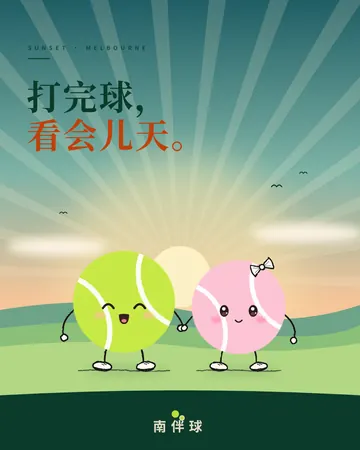
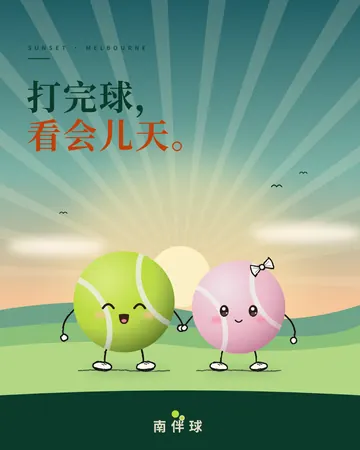
84：角色球身改 36 号同款立体画法；figure4 增加 ball_style
Claude-Session: https://claude.ai/code/session_01Vg2RCbjYppFezKGzdwzEXB

diff --git a/marketing/mao4.py b/marketing/mao4.py
@@ -95,6 +95,26 @@ def fuzzball(id, cx, cy, r, pal, seed=1, rot=-22, dens=1.0):
             f'<g clip-path="url(#bc{id})">{tex}<g transform="scale({u})">{seam_svg}</g></g></g>')
 
 
+SOFT = {'mao': ('#E4F76A', '#C6EA3D', '#7FA21C', '#0b1a00'),
+        'rong': ('#FFEEF4', '#FFC6D8', '#F29DBA', '#7a2a4a')}
+
+
+def softball(id, cx, cy, r, char='mao', rot=-22):
+    """36 号早安小球同款立体球：渐变 + 细颗粒（fuzz 滤镜）+ 边缘暗角 + 干净的奶白球缝。"""
+    hi, mid, lo, dk = SOFT[char]
+    sc = r / 100
+    sm = '#FFFDF4' if char == 'rong' else '#F7FBE8'
+    return (f'<defs><radialGradient id="sg{id}" cx="35%" cy="30%" r="85%"><stop offset="0" stop-color="{hi}"/><stop offset=".55" stop-color="{mid}"/><stop offset="1" stop-color="{lo}"/></radialGradient>'
+            f'<radialGradient id="sr{id}" cx="30%" cy="25%" r="90%"><stop offset="0" stop-color="#fff" stop-opacity=".22"/><stop offset=".45" stop-color="#fff" stop-opacity="0"/><stop offset="1" stop-color="{dk}" stop-opacity=".5"/></radialGradient>'
+            f'<clipPath id="sc{id}"><circle r="100"/></clipPath></defs>'
+            f'<g transform="translate({cx:.1f} {cy:.1f}) scale({sc:.4f})"><circle r="100" fill="url(#sg{id})"/>'
+            f'<g clip-path="url(#sc{id})"><g transform="rotate({rot})">'
+            f'<path d="M-67 -74 C-30 -34 -30 34 -67 74" fill="none" stroke="{sm}" stroke-width="11" stroke-linecap="round" opacity=".92"/>'
+            f'<path d="M67 -74 C30 -34 30 34 67 74" fill="none" stroke="{sm}" stroke-width="11" stroke-linecap="round" opacity=".92"/></g>'
+            f'<circle r="100" fill="#000" filter="url(#fuzz)" opacity=".30" style="mix-blend-mode:multiply"/>'
+            f'<circle r="100" fill="url(#sr{id})"/></g></g>')
+
+
 def face4(id, cx, cy, r, mood='smile', look=0, pal=LIME_P):
     u = r / 100
     f = lambda v: f'{v:.1f}'
@@ -182,7 +202,7 @@ def bow4(cx, cy, r, w):
 K_ARM, K_LEG, GROUND = .80, .66, 1.36
 
 
-def figure4(id, cx, cy, r, pose='wave', mood='happy', char='mao', tilt=None, lift=None, look=0, mirror=None, gy=None, soft=True, seed=None):
+def figure4(id, cx, cy, r, pose='wave', mood='happy', char='mao', tilt=None, lift=None, look=0, mirror=None, gy=None, soft=True, seed=None, ball_style='flat'):
     pal = PINK_P if char == 'rong' else LIME_P
     if isinstance(pose, str):
         P = POSES[pose]
@@ -264,5 +284,5 @@ def figure4(id, cx, cy, r, pose='wave', mood='happy', char='mao', tilt=None, lif
     front = f'<g filter="url(#rough2)">{arms}</g>' if P.get('front') else ''
     limbs = f'<g filter="url(#rough2)">{legs}{arms if not P.get("front") else ""}</g>'
     return (soft_sh + f'<g filter="url(#rough2)">{ground}</g>'
-            f'<g transform="rotate({tilt} {cx} {cy})">{limbs}{fuzzball(id, cx, cy, r, pal, seed)}'
+            f'<g transform="rotate({tilt} {cx} {cy})">{limbs}{fuzzball(id, cx, cy, r, pal, seed) if ball_style == "flat" else softball(id, cx, cy, r, char)}'
             f'{face4(id, cx, cy, r, mood, look, pal)}<g filter="url(#rough2)">{hair}</g>{front}<g filter="url(#rough2)">{extra}{z}</g></g>')

diff --git a/marketing/posters/p84_mao_rong_sunset.py b/marketing/posters/p84_mao_rong_sunset.py
@@ -29,8 +29,8 @@ def svg():
     mx, my = (xm + xr) / 2 + 4, gy - 128
     hm = ((mx - 5 - xm) / rm, (my - cym) / rm)
     hr = ((mx + 5 - xr) / rr, (my - cyr) / rr)
-    a1 = figure4('m', xm, 0, rm, dict(L=DOWN_L, R=((1.3, .55), raw(SH_R, hm)), legs='stand'), 'happy', gy=gy)
-    a2 = figure4('r', xr, 0, rr, dict(L=((-1.3, .55), raw(SH_L, hr)), R=DOWN_R, legs='stand'), 'smile', char='rong', gy=gy, look=1)
+    a1 = figure4('m', xm, 0, rm, dict(L=DOWN_L, R=((1.3, .55), raw(SH_R, hm)), legs='stand'), 'happy', gy=gy, ball_style='soft')
+    a2 = figure4('r', xr, 0, rr, dict(L=((-1.3, .55), raw(SH_L, hr)), R=DOWN_R, legs='stand'), 'smile', char='rong', gy=gy, look=1, ball_style='soft')
     arm = ''
     body = f'''
 <defs>

diff --git a/.claude/skills/nanbanqiu-poster/SKILL.md b/.claude/skills/nanbanqiu-poster/SKILL.md
@@ -85,6 +85,7 @@ def svg():
 4. **球的质感是「柔」的**：球身用柔和的渐变和极细的颗粒，球缝是干净的奶白带；光和场景同源（朝阳在后面），所以不显得突兀。被否的是**贴纸式的塑料高光 + 空背景**（像苹果），不是渐变本身。
 5. **主色关系**：球是整张最亮的点（荧光黄绿），背景用青绿 / 暖色衬它；标题深绿 + `#C2410C`，底部深色条放字标。
 6. **一张一个想法**：这一张只讲「早上也有球」。
+**球身两种画法**：场景海报（36、84）用 `figure4(..., ball_style='soft')` = 36 号同款立体球（渐变 + 细颗粒 + 边缘暗角 + 干净球缝），角色有体积感；浅色空白底的设定图（82、83）才用默认 `'flat'` 平涂。用户 10-29 评 84 首版「平面的，没有 36 号立体」，场景里的角色必须立体。
 **以后做角色（小毛 / 小绒）新海报**：先选一个有画面感的时刻（日出、傍晚球场、雨后、夜里的泛光灯），用上面的方法搭场景，角色按 36 号的脸画（可保留小毛小绒的黑色细线手脚，但脸和球身用 36 号的画法），再出图；不要先画角色再找背景。
 
 ## 经验和坑

diff --git a/.claude/skills/nanbanqiu-poster/品味手册.md b/.claude/skills/nanbanqiu-poster/品味手册.md
@@ -95,3 +95,4 @@
 - 10-29 毡面颗粒再被说「疙疙瘩瘩」→ 球面走动漫赛璐璐风：光滑渐变 + 柔和暗部 + 左上高光 + 左下反光，不加噪点颗粒；绒感只靠球缝上的几根细绒和很淡的边缘光晕。
 - 10-29 高光 / 渐变「像苹果」→ 要平面设计风：纯色球身，无高光无渐变无暗部；绒感只靠轮廓同色细毛边 + 极淡短绒纹 + 球缝几根细绒。人没有高光，球也不要有。
 - 10-29 用户点评 36 号早安小球「无论背景还是人物都非常好」→ 角色放进有光的场景，背景分层、脸极简、球质感柔；详见 SKILL.md「36 号范式」。
+- 10-29 84 号首版角色平涂被说「没有 36 号立体」→ 场景海报的角色球身用 ball_style='soft'（36 号画法）。
